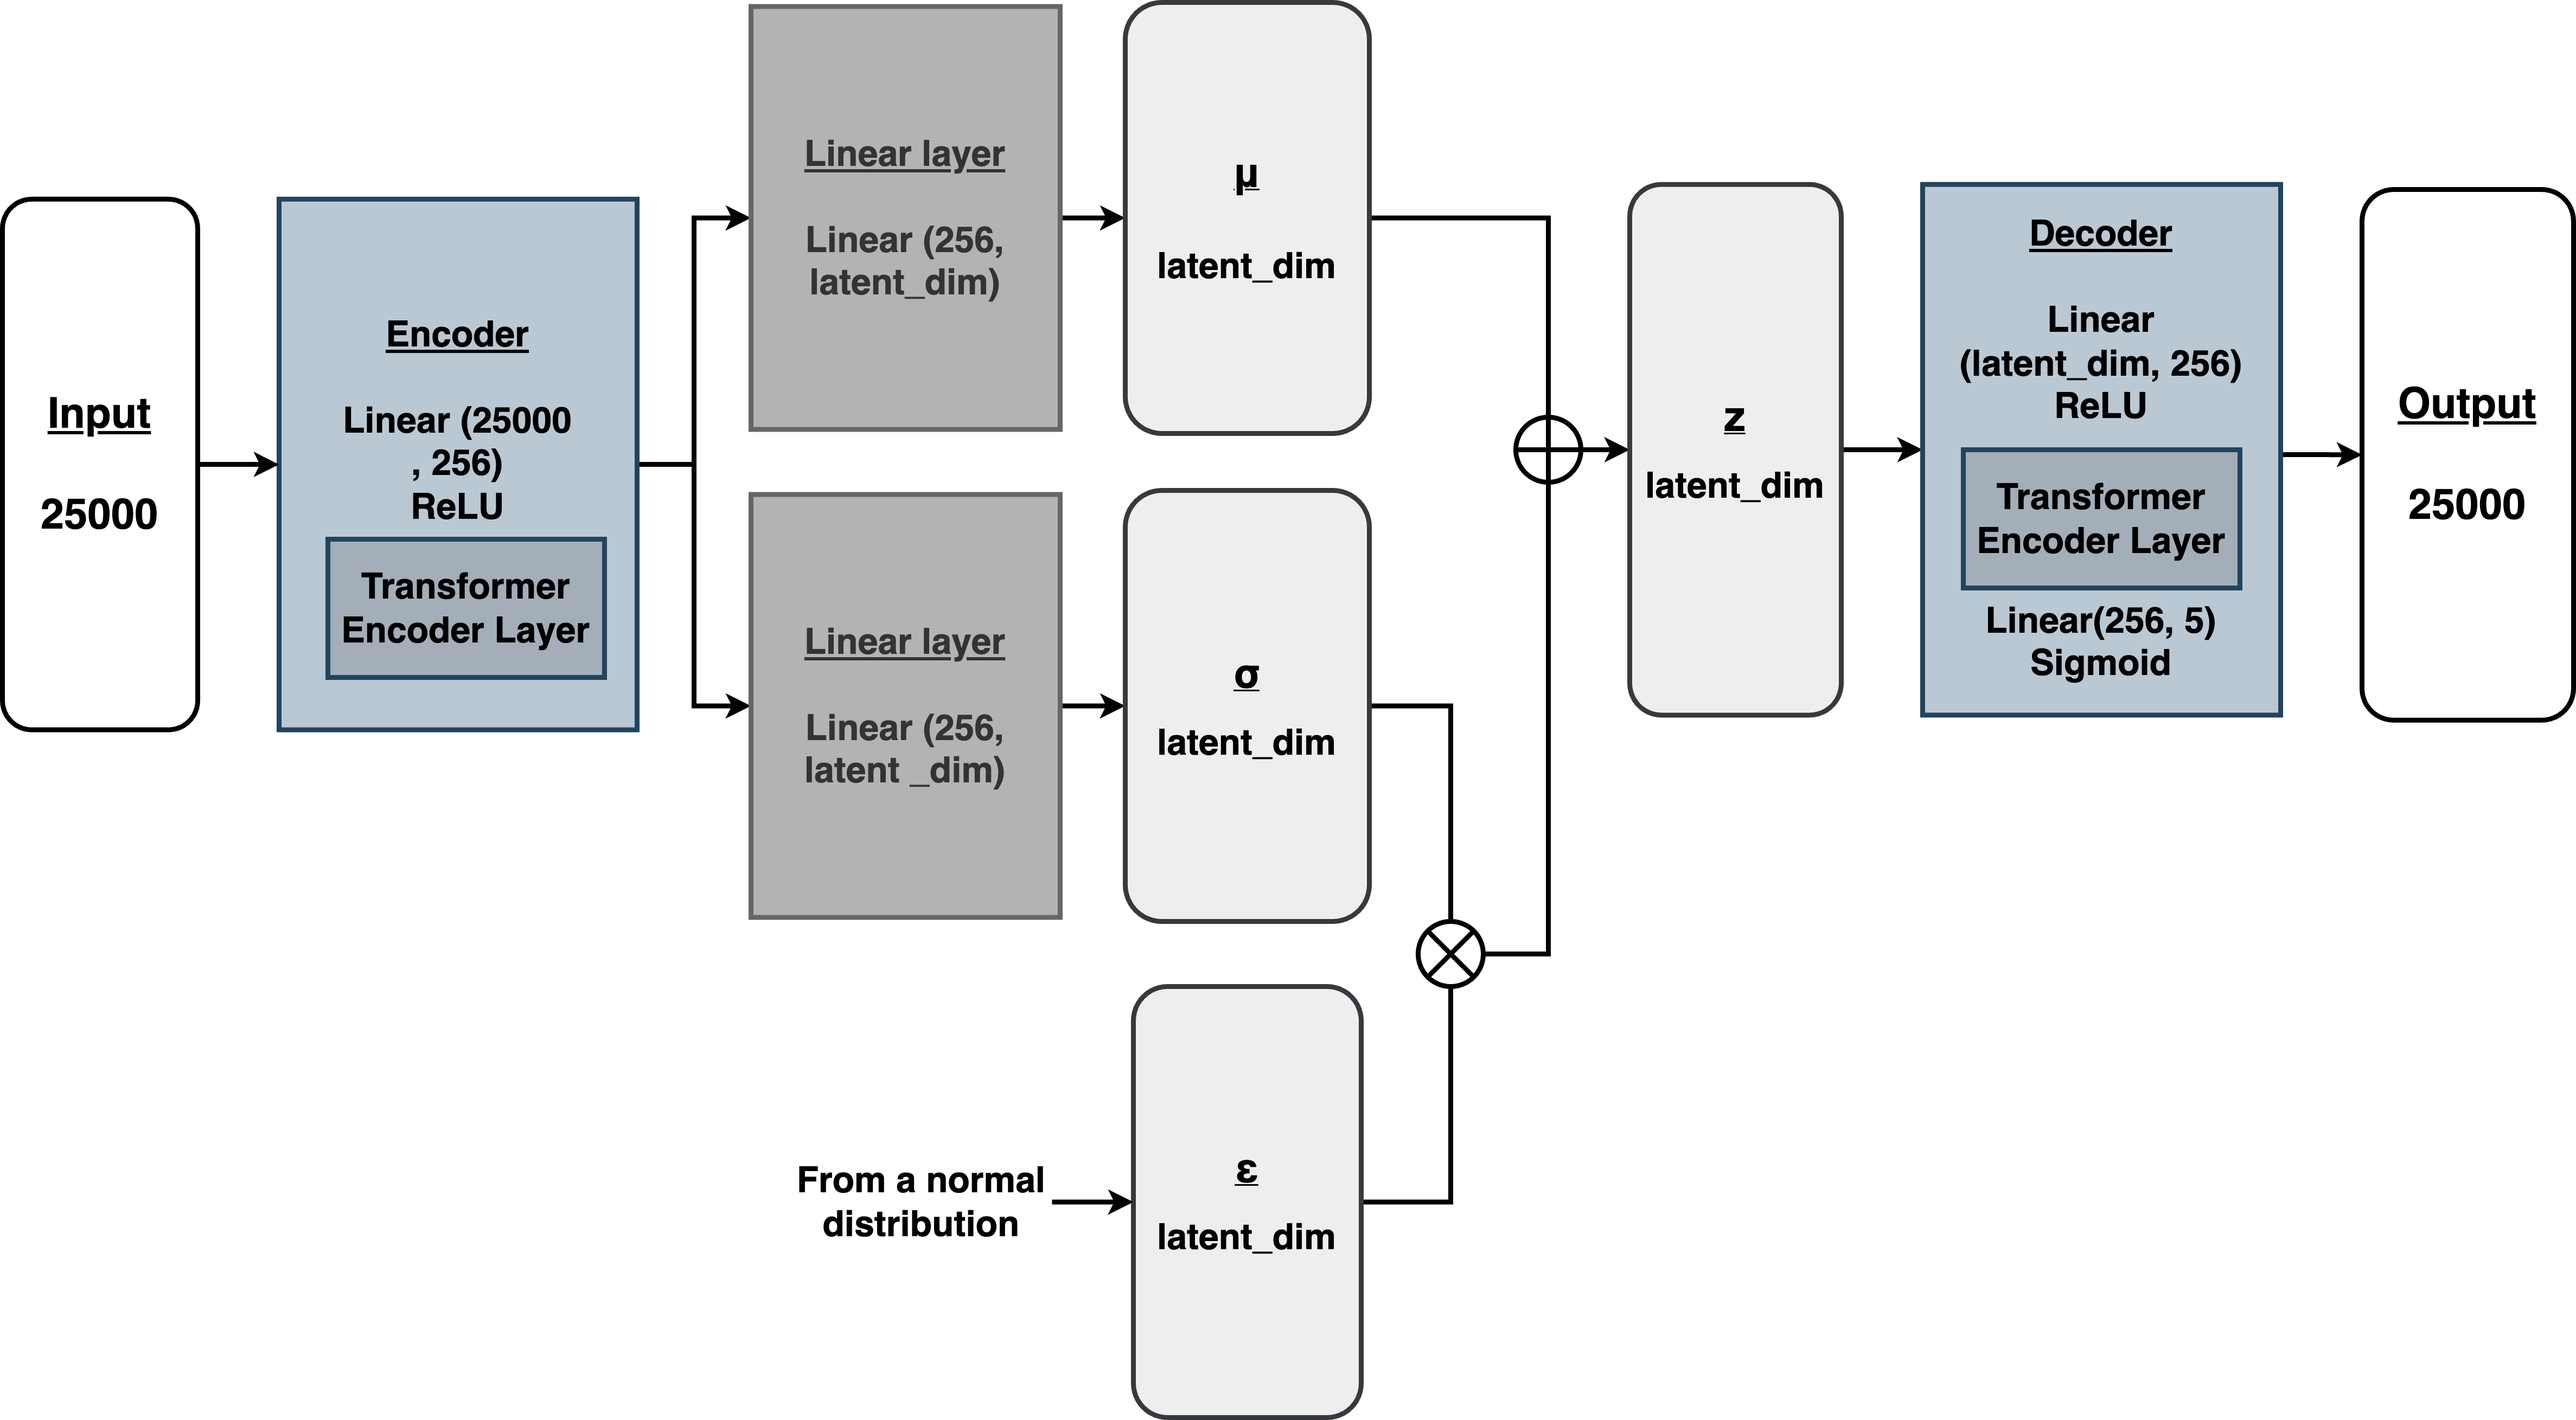
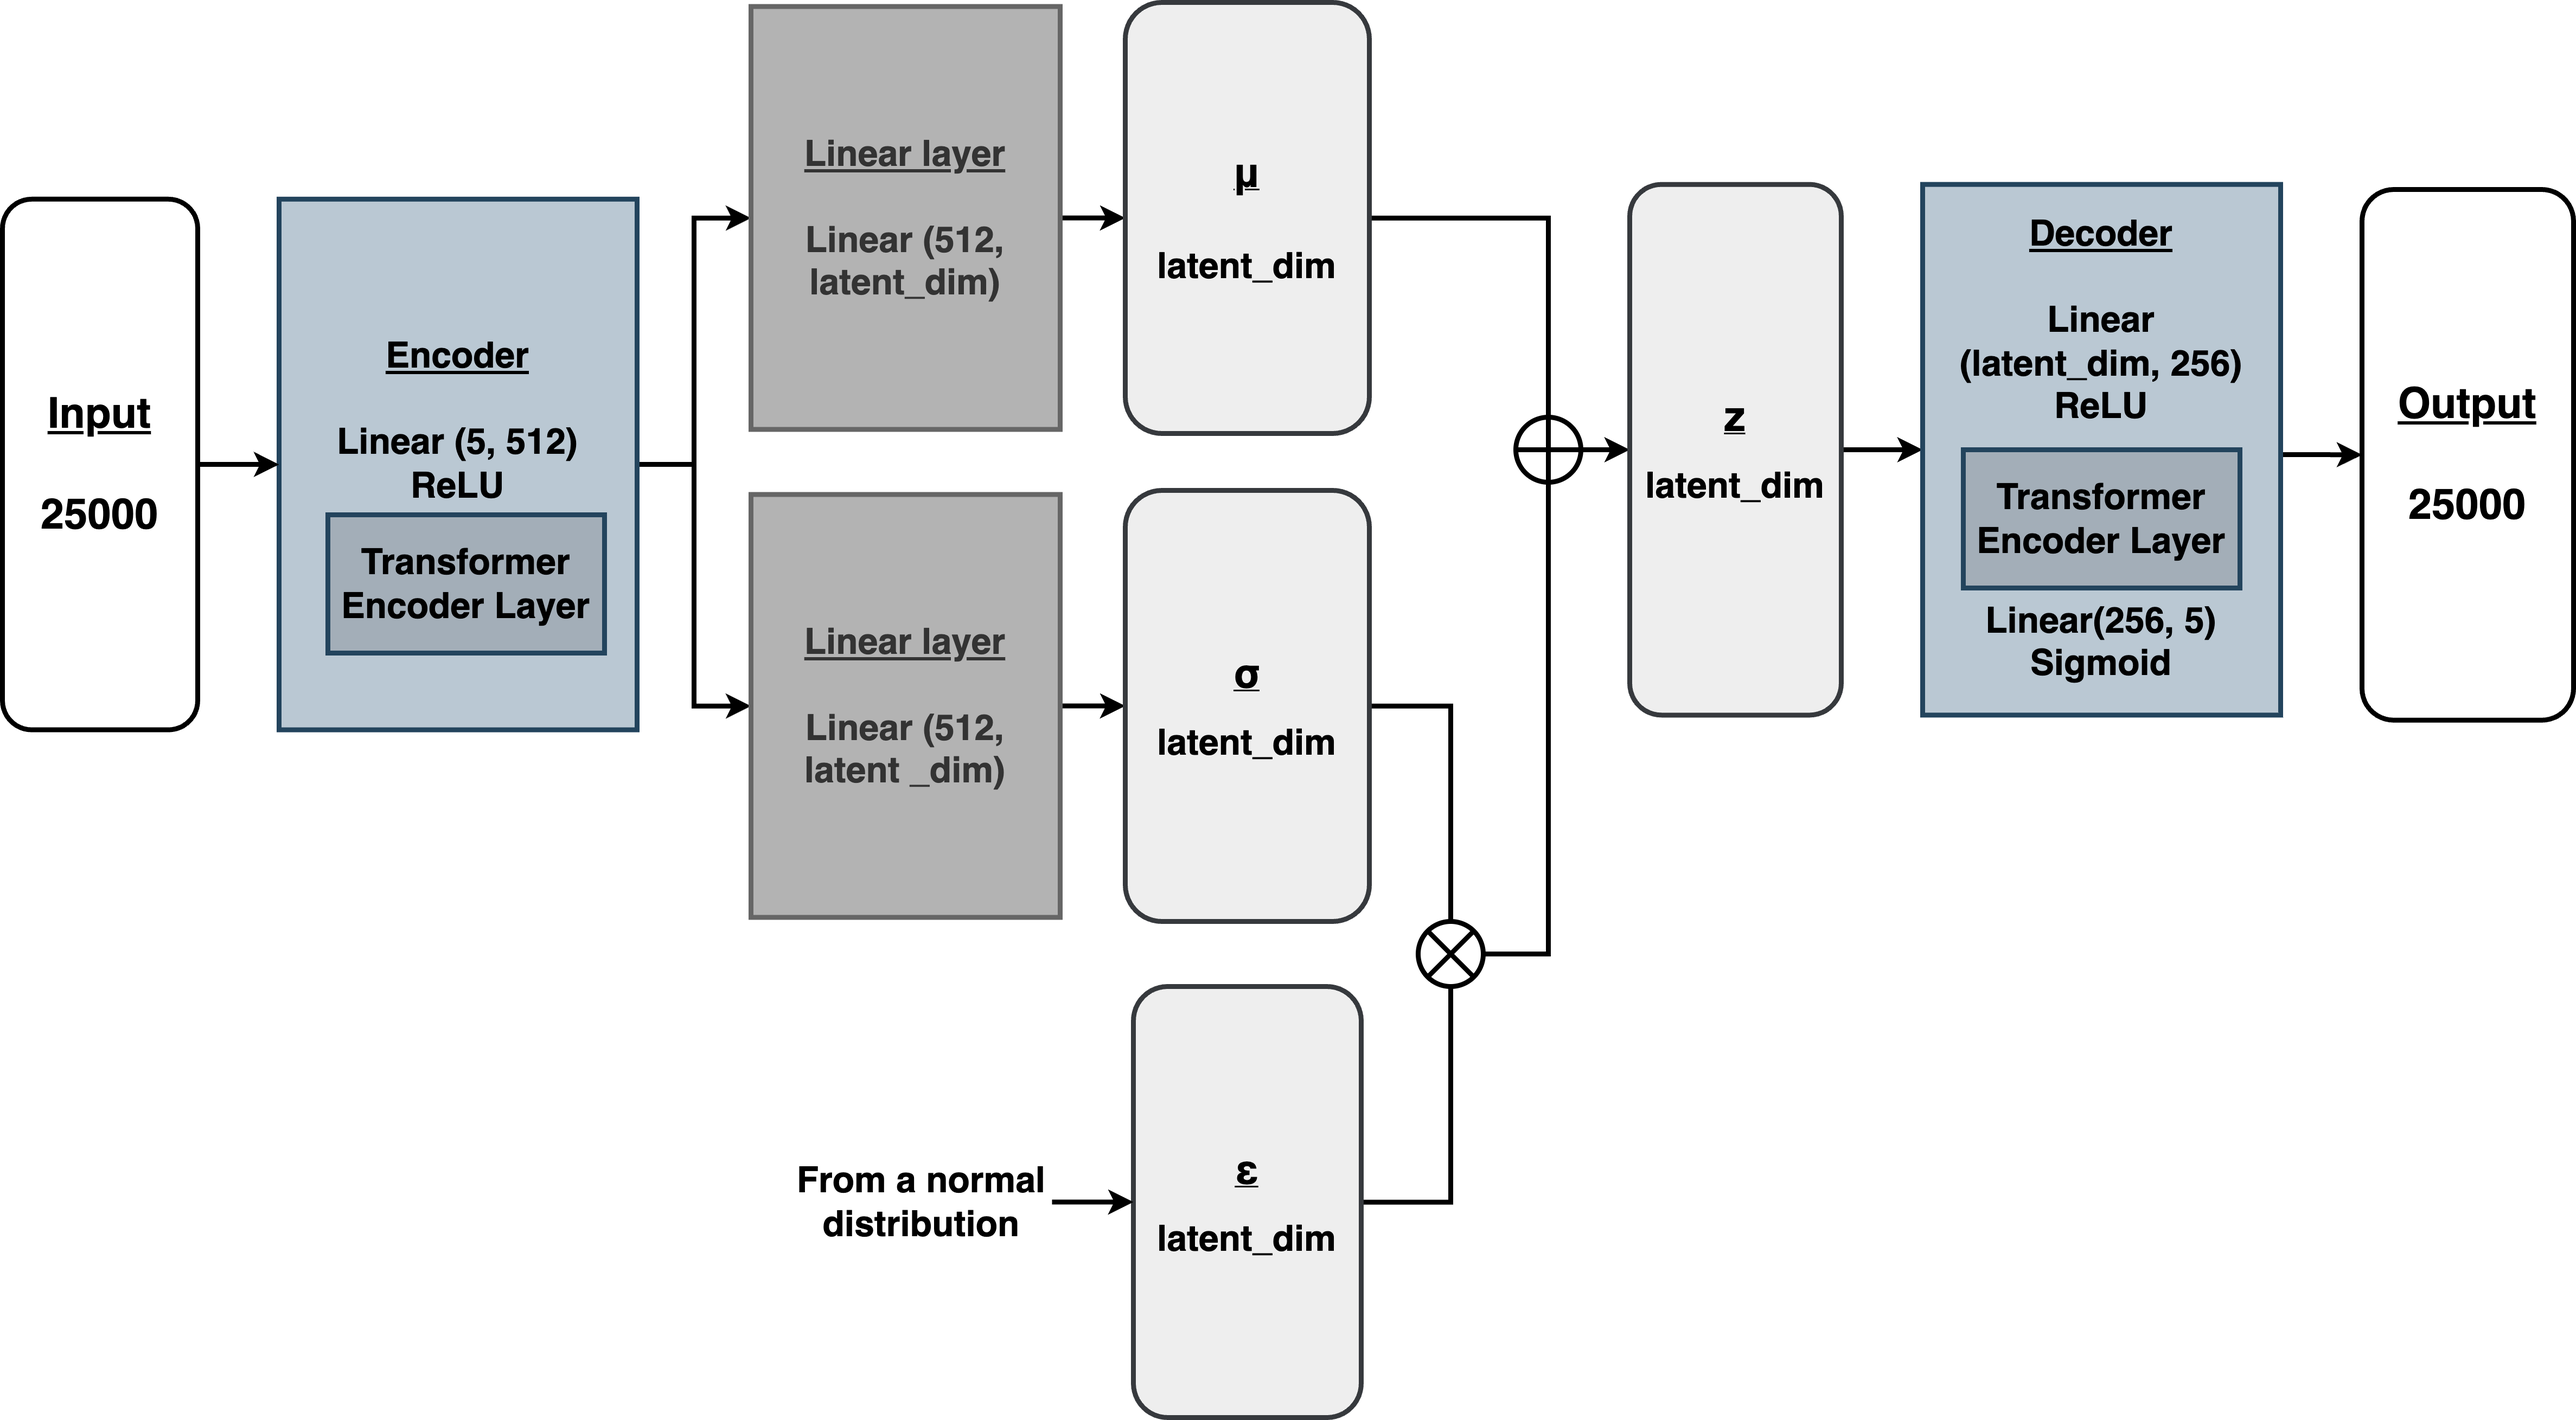
modify input dim as 5000x5x1
* The model architecture could refer to the model session in README

diff --git a/model.py b/model.py
@@ -14,21 +14,37 @@ class VariationalEncoder(nn.Module):
         self.r_embedder = nn.Linear(input_dim, 128)
         self.g_embedder = nn.Linear(input_dim, 128)
         self.b_embedder = nn.Linear(input_dim, 128)
+
         self.transformer_layer = nn.TransformerEncoderLayer(d_model=128, nhead=num_head, batch_first=True)
-        self.fc_mean = nn.Linear(128, latent_dim)
-        self.fc_var = nn.Linear(128, latent_dim)
+        
+        self.fc_mean_x = nn.Linear(128, latent_dim)
+        self.fc_mean_y = nn.Linear(128, latent_dim)
+        self.fc_mean_r = nn.Linear(128, latent_dim)
+        self.fc_mean_g = nn.Linear(128, latent_dim)
+        self.fc_mean_b = nn.Linear(128, latent_dim)
+
+        self.fc_var_x = nn.Linear(128, latent_dim)
+        self.fc_var_y = nn.Linear(128, latent_dim)
+        self.fc_var_r = nn.Linear(128, latent_dim)
+        self.fc_var_g = nn.Linear(128, latent_dim)
+        self.fc_var_b = nn.Linear(128, latent_dim)
 
     def forward(self, x):
-        x_coor = F.relu(self.x_embedder(x[:, 0, :]))
-        y_coor = F.relu(self.y_embedder(x[:, 1, :]))
-        r_value = F.relu(self.r_embedder(x[:, 2, :]))
-        g_value = F.relu(self.g_embedder(x[:, 3, :]))
-        b_value = F.relu(self.b_embedder(x[:, 4, :]))
-        x_coor, y_coor, r_value, g_value, b_value = x_coor[:, None, :], y_coor[:, None, :], r_value[:, None, :], g_value[:, None, :], b_value[:, None, :]
+        x_coor = F.relu(self.x_embedder(x[:, 0:1, :]))
+        y_coor = F.relu(self.y_embedder(x[:, 1:2, :]))
+        r_value = F.relu(self.r_embedder(x[:, 2:3, :]))
+        g_value = F.relu(self.g_embedder(x[:, 3:4, :]))
+        b_value = F.relu(self.b_embedder(x[:, 4:5, :]))
+
         x = torch.cat((x_coor, y_coor, r_value, g_value, b_value), 1)
         x = self.transformer_layer(x)
-        mean = self.fc_mean(x)
-        log_var = self.fc_var(x)
+
+        mean_x, mean_y, mean_r, mean_g, mean_b = self.fc_mean_x(x[:, 0:1, :]), self.fc_mean_y(x[:, 1:2, :]), self.fc_mean_r(x[:, 2:3, :]), self.fc_mean_g(x[:, 3:4, :]), self.fc_mean_b(x[:, 4:5, :])
+        log_var_x, log_var_y,log_var_r, log_var_g, log_var_b = self.fc_var_x(x[:, 0:1, :]), self.fc_var_y(x[:, 1:2, :]), self.fc_var_r(x[:, 2:3, :]), self.fc_var_g(x[:, 3:4, :]), self.fc_var_b(x[:, 4:5, :])
+
+        mean = torch.cat((mean_x, mean_y, mean_r, mean_g, mean_b), 1)
+        log_var = torch.cat((log_var_x, log_var_y,log_var_r, log_var_g, log_var_b), 1)
+
         return mean, log_var
 
 class Decoder(nn.Module):
@@ -37,16 +53,36 @@ class Decoder(nn.Module):
     """
     def __init__(self, latent_dim, output_dim, num_head):
         super(Decoder, self).__init__()
-        self.fc_emb = nn.Linear(latent_dim, 128)
+        self.x_embedder = nn.Linear(latent_dim, 128)
+        self.y_embedder = nn.Linear(latent_dim, 128)
+        self.r_embedder = nn.Linear(latent_dim, 128)
+        self.g_embedder = nn.Linear(latent_dim, 128)
+        self.b_embedder = nn.Linear(latent_dim, 128)
+
         self.transformer_layer = nn.TransformerEncoderLayer(d_model=128, nhead=num_head, batch_first=True)
+        
+        self.fc_output_x = nn.Linear(128, 128)
+        self.fc_output_y = nn.Linear(128, 128)
+        self.fc_output_r = nn.Linear(128, 128)
+        self.fc_output_g = nn.Linear(128, 128)
+        self.fc_output_b = nn.Linear(128, 128)
+        
         self.fc_output = nn.Linear(128, output_dim)
 
     def forward(self, z):
-        z = F.relu(self.fc_emb(z))
-        z = self.transformer_layer(z)
-        z = torch.sigmoid(self.fc_output(z))
+        x_coor = F.relu(self.x_embedder(z[:, 0:1, :]))
+        y_coor = F.relu(self.y_embedder(z[:, 1:2, :]))
+        r_value = F.relu(self.r_embedder(z[:, 2:3, :]))
+        g_value = F.relu(self.g_embedder(z[:, 3:4, :]))
+        b_value = F.relu(self.b_embedder(z[:, 4:5, :]))
 
-        return z
+        z = torch.cat((x_coor, y_coor, r_value, g_value, b_value), 1)
+        z = self.transformer_layer(z)
+
+        z_x, z_y, z_r, z_g, z_b = F.relu(self.fc_output_x(z[:, 0:1, :])), F.relu(self.fc_output_y(z[:, 1:2, :])), F.relu(self.fc_output_r(z[:, 2:3, :])), F.relu(self.fc_output_g(z[:, 3:4, :])), F.relu(self.fc_output_b(z[:, 4:5, :])) 
+
+        output = F.sigmoid(self.fc_output(torch.cat((z_x, z_y, z_r, z_g, z_b), 1)))
+        return output
 
 class VariationalAutoencoder(nn.Module):
     def __init__(self, input_dim, latent_dim, num_head):

diff --git a/README.md b/README.md
@@ -14,7 +14,11 @@ Build a generative model `colored_pi_generator` whose output is a 5-dimensional 
 
 ## Method - VAE (Variational Autoencoder) with Transformer Encoder Layer
 ### Model Architecture
-<img src='./assets/framework_1.png' alt="odel framework" height="250px">
+* Model A: Input Dimension: 1x1x25000 (branch/vae_with_transformer_encoder_layer_1distribution)
+<img src='./assets/framework_1.png' alt="model framework" height="250px">
+
+* Model B: Input Dimension: 5000x5x1 (main)
+<img src='./assets/framework_5.png' alt="model framework" height="190px">
 
 * VAE provides a probabilistic manner for describing an observation in latent space. Thus, we are going to formulate our encoder to describe a **probability distribution** for each latent attribute.
 * **Encoder**
@@ -33,7 +37,7 @@ where $\beta$ from 0 linear growth to 1 as the \#epochs increase
 * [Reference](https://medium.com/mlearning-ai/a-must-have-training-trick-for-vae-variational-autoencoder-d28ff53b0023)
 
 - - -
-## Results
+## Results of Model A
 * Training Curves
 
 |Vanilla VAE|VAE with **Transformer**<br /> **Encoder Layer**|
